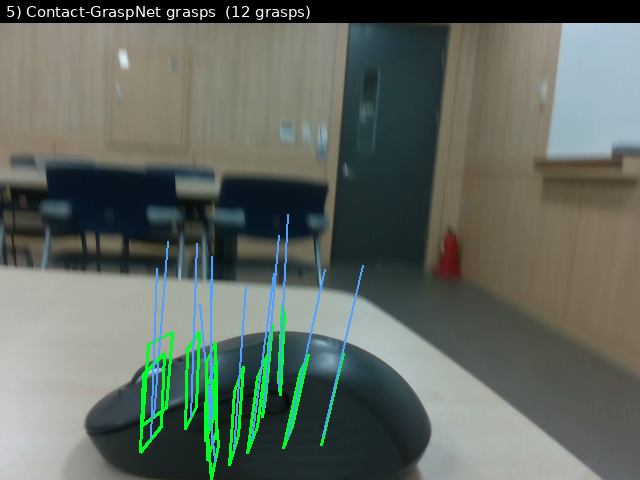
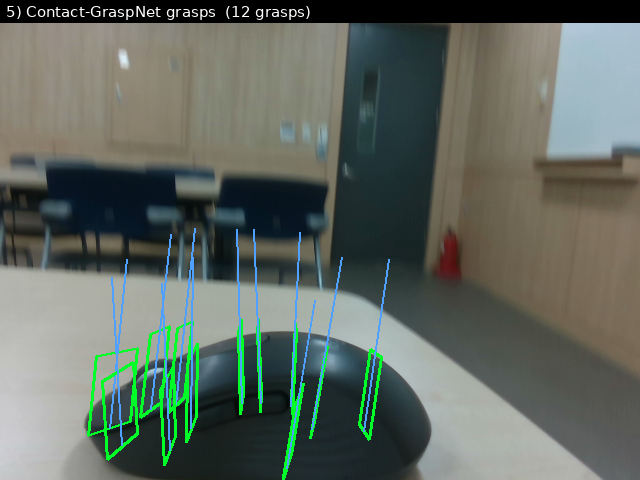
sam3

Changed region(s): [[0.125, 0.4688, 0.5938, 1.0], [0.5, 0.5625, 0.5312, 0.625]]

diff --git a/README.md b/README.md
@@ -125,13 +125,13 @@ Writes annotated overlays to `out/`:
 |---|---|---|
 | `01_grounding_dino_boxes.png` | Grounding-DINO detection | ✅ runs |
 | `02_sam_masks.png` | SAM box-prompted masks (`gsam`) | ✅ runs |
-| `03_sam3_instances.png` | SAM 3 concept segmentation | ⚠️ needs gated HF approval |
+| `03_sam3_instances.png` | SAM 3 concept segmentation | ✅ runs (mouse @ 0.99) |
 | `04_grasp_analytic.png` | analytic 6-DoF grasps | ✅ runs |
 | `05_grasp_cgn.png` | Contact-GraspNet grasps | ✅ runs (installed) |
 
-A backend that isn't enabled writes an instructional status card instead of
-crashing. SAM 3 is the only one still pending (manual gated approval — see below).
-Grasps render as projected parallel-jaw grippers colored by score.
+All four models run end-to-end on the data. A backend that isn't enabled writes
+an instructional status card instead of crashing. Grasps render as projected
+parallel-jaw grippers colored by score.
 
 ## Remote access (Tailscale + VSCode/SSH)
 
@@ -143,14 +143,15 @@ SSH + VSCode Remote-SSH from your laptop, and run the server as a systemd servic
 ## Optional backends
 
 **SAM 3** (`seg_backend="sam3"`) — single-model text/concept segmentation, wired
-to the native transformers SAM 3 API (`Sam3Model`/`Sam3Processor`, present in
-transformers ≥5.12). Weights (`facebook/sam3`) are **gated with manual approval**:
-1. Request access at https://huggingface.co/facebook/sam3 and **wait for Meta to
-   approve your account** (a valid token alone is not enough — an un-approved
-   account gets `403 not in the authorized list`).
-2. `huggingface-cli login` (or `export HF_TOKEN=...`) on the DGX.
-Until approved, `/health` shows `sam3: loaded:false` and requests return an
-actionable error; `gsam` keeps working.
+to the native transformers SAM 3 API (`Sam3Model`/`Sam3Processor`). **Access
+granted and verified** on this DGX (weights `facebook/sam3`, ~3.4 GB, cached in
+`~/.cache/huggingface`; mouse segmented at score 0.99 — crisper than the GSAM
+path). Notes:
+- The repo is **gated (manual approval)**: a token alone isn't enough — the HF
+  account must be approved at https://huggingface.co/facebook/sam3 (already done
+  for `jsimetri2`). An un-approved account gets `403 not in authorized list`.
+- Set `HF_TOKEN` (or `huggingface-cli login`) when launching the server so it can
+  load the gated weights; uncomment `HF_TOKEN` in the systemd unit.
 
 **Contact-GraspNet** (`grasp_backend="cgn"`) — learned grasps, **installed and
 verified** on this DGX (97 grasps on the mouse cloud; better than the analytic